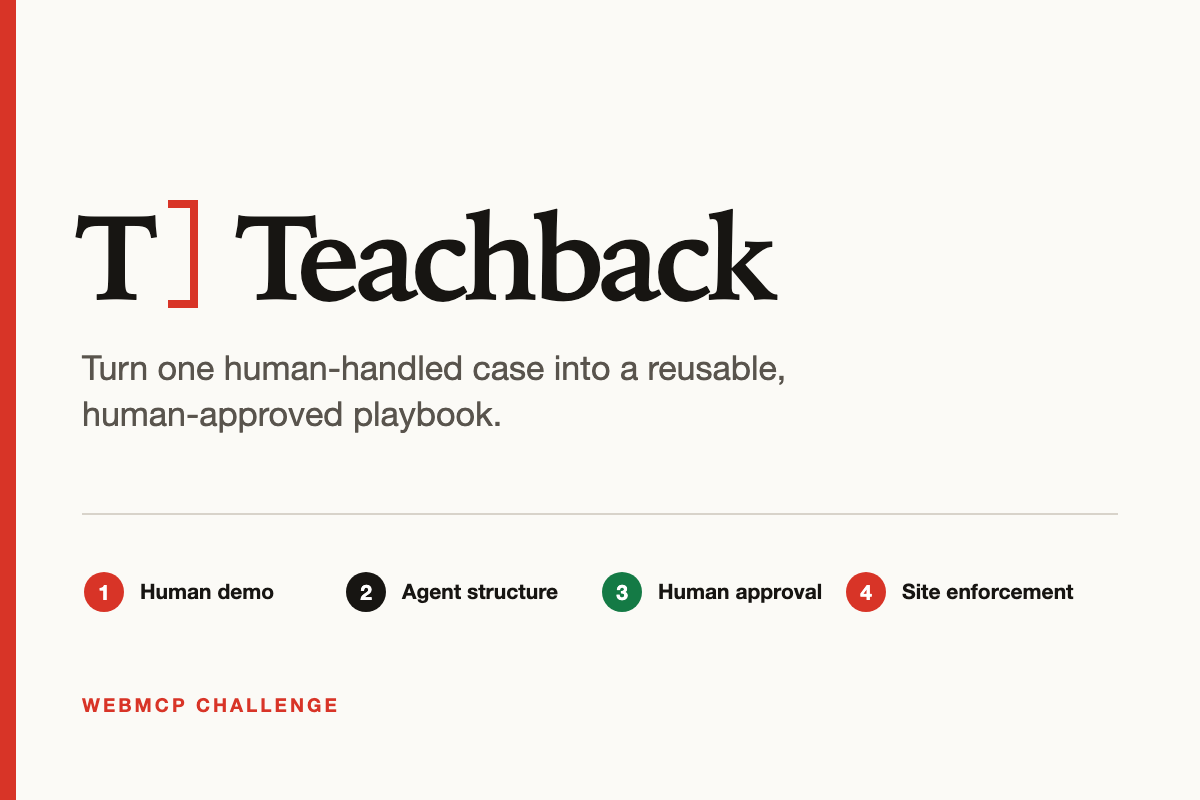
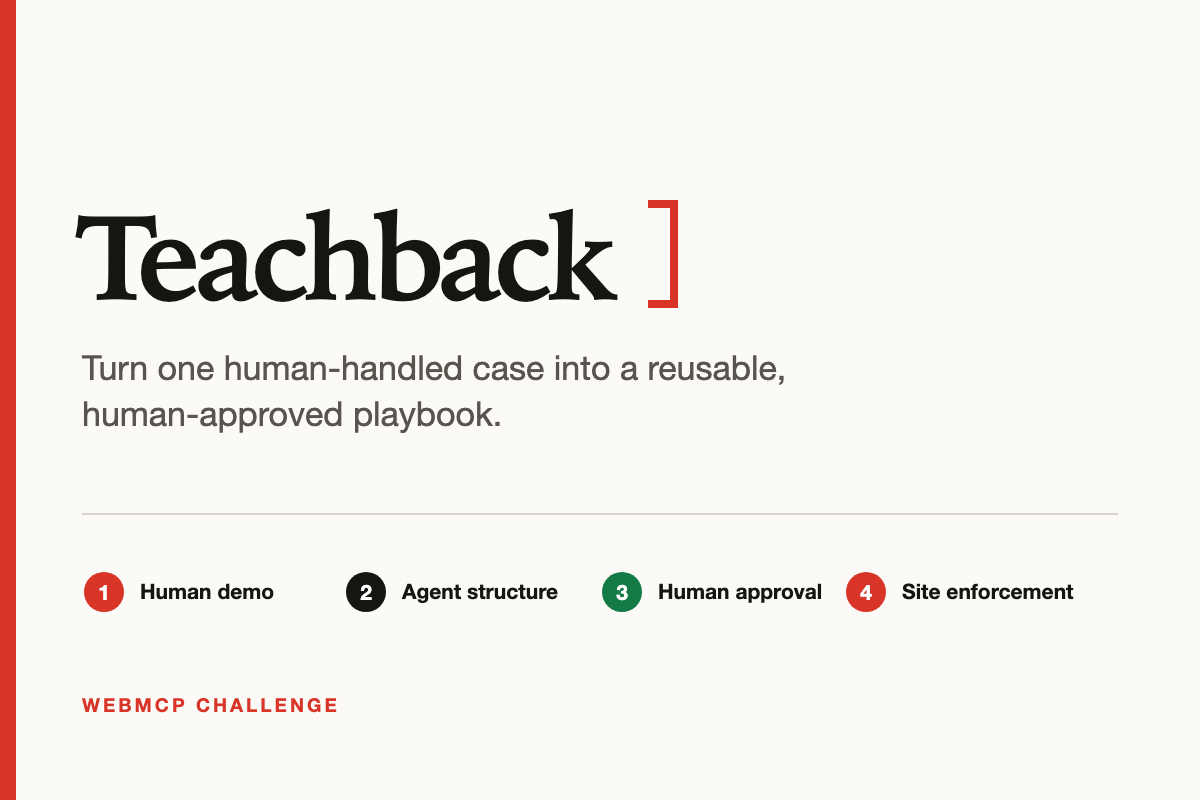
Move boundary mark after Teachback wordmark

Changed region(s): [[0.0925, 0.25, 0.6475, 0.4062]]

diff --git a/src/styles.css b/src/styles.css
@@ -73,22 +73,27 @@ a:focus-visible {
   min-width: 0;
   display: flex;
   align-items: center;
-  gap: 15px;
-}
-
-.brand-mark {
-  width: clamp(36px, 3.2vw, 44px);
-  height: clamp(36px, 3.2vw, 44px);
-  flex: 0 0 auto;
 }
 
 .brand {
+  display: inline-flex;
+  align-items: center;
+  gap: 9px;
   font-family: "Iowan Old Style", Baskerville, Georgia, serif;
   font-size: 40px;
   line-height: 44px;
   font-weight: 700;
   letter-spacing: -0.04em;
   white-space: nowrap;
+}
+
+.brand-boundary {
+  width: 10px;
+  height: 35px;
+  border-top: 3px solid var(--accent);
+  border-right: 3px solid var(--accent);
+  border-bottom: 3px solid var(--accent);
+  transform: translateY(1px);
 }
 
 .header-actions {

diff --git a/src/App.tsx b/src/App.tsx
@@ -348,8 +348,10 @@ function AppHeader({
   return (
     <header className="app-header">
       <div className="brand-lockup">
-        <img className="brand-mark" src="/brand-mark.svg" alt="" />
-        <span className="brand">Teachback</span>
+        <span className="brand">
+          Teachback
+          <span className="brand-boundary" aria-hidden="true" />
+        </span>
       </div>
       <div className="header-actions">
         <div
